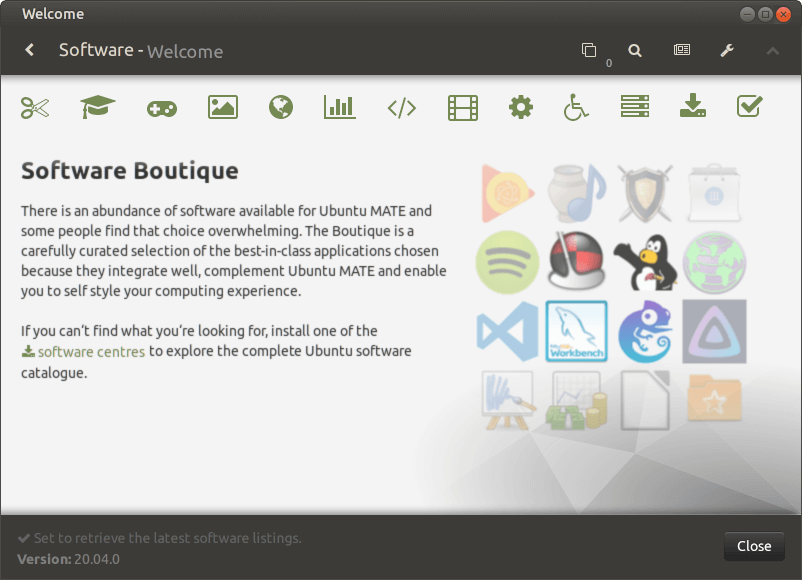
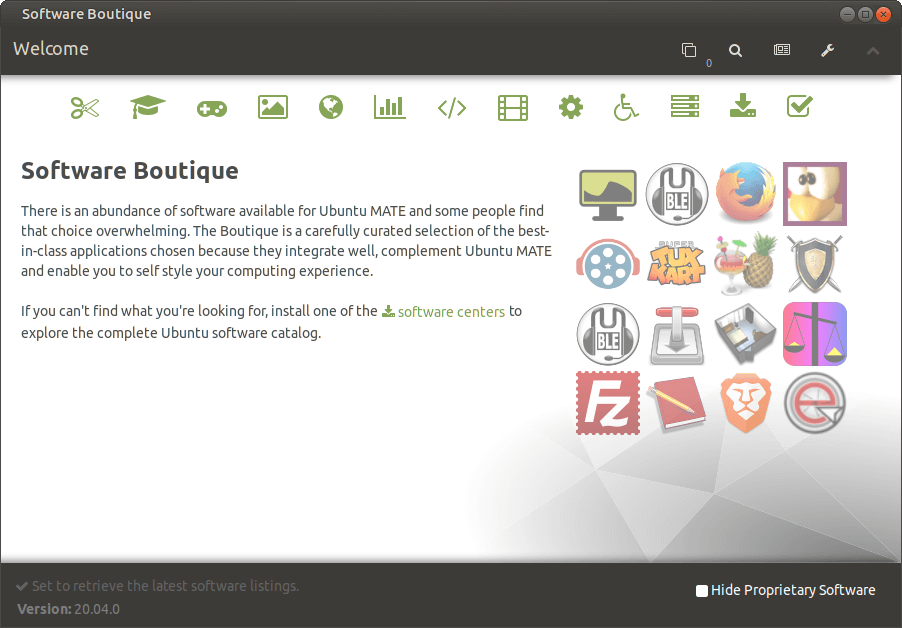
Features: Add images for Software Boutique.

diff --git a/pages/features-boutique.md b/pages/features-boutique.md
@@ -10,25 +10,25 @@ swap_position: true
 
 main_image_filename: boutique
 main_image_alt:
-main_title: Discover the best in class software
-main_subtitle: Pick from our software curated selection of applications that complement the MATE Desktop.
+main_title: The best in class software
+main_subtitle: Pick from our curated selection of applications that complement your experience.
 main_text: >-
 
-    And if you don't find what you're looking for, explore the
-    entire Ubuntu archives and Snaps
+    Serving our users since 15.10, and will develop into a fully fledged
+    software centre in future.
 
-left_image_filename: placeholder
+left_image_filename: boutique-1
 left_image_alt:
-left_title: ???
-left_subtitle: ???
+left_title: Discover New Applications
+left_subtitle: Download software for a variety of tasks.
 
-middle_image_filename: placeholder
+middle_image_filename: boutique-2
 middle_image_alt:
-middle_title: ???
-middle_subtitle: ???
+middle_title: Convenient Recovery
+middle_subtitle: Should things go wrong, a few clicks will get you back on track.
 
-right_image_filename: placeholder
+right_image_filename: boutique-3
 right_image_alt:
-right_title: ???
-right_subtitle: ???
+right_title: Can't find what you want?
+right_subtitle: Install a software centre or package manager to explore the rest of the ecosystem.
 ---
